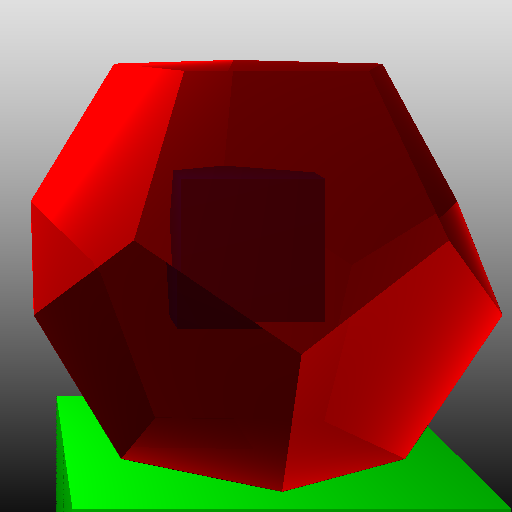
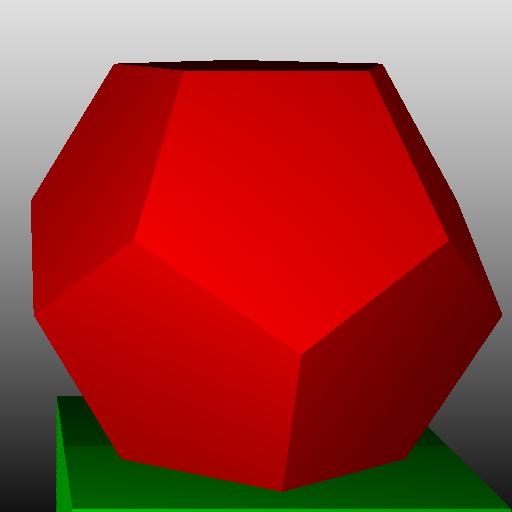
Only light

diff --git a/Source/main.cpp b/Source/main.cpp
@@ -10,7 +10,6 @@
 #include "stb_image_write.h"
 float SIZE = 1;
 
-float find_light(std::vector<Object *>*, std::vector<Light> *, Vec, Collision, bool);
 Vec reflect_vec(Vec, Vec, float);
 
 Collision
@@ -30,54 +29,55 @@ trace_ray(std::vector<Object *> *scene, std::vector<Light> *lights, Ray ray, int
     }
     if (hit.hit) {
         Vec intersect(ray.pos + (ray.dir * hit.dist));
-        float light = find_light(scene, lights, intersect, hit, hit.real);
-        hit.color = hit.color * light;
-        if (hit.color.a < 1) {
-            Ray second = Ray(intersect, reflect_vec(ray.dir, hit.normal, hit.reflect));
-            tmp = trace_ray(scene, lights, second, deep - 1);
-            if (tmp.hit) {
-                light = find_light(scene, lights, second.pos + (second.dir * (tmp.dist + 5)), tmp, tmp.real);
-                float pogl = exp(-(hit.absorbtion * tmp.dist * 4 / SIZE));
-                hit.color = hit.color + (tmp.color * (pogl * light));
+        // light for THIS point
+        size_t lights_len = lights->size();
+        float add = 0;
+        for (size_t i = 0; i < lights_len; i++) {
+            Vec light_dir = (*lights)[i].pos - intersect;
+            // for each light do, while not wall
+            Ray to_light(intersect, light_dir.normalize());
+            float way_coef = 0;
+            float distance = light_dir.len();
+            
+            bool result = true;
+            float in_a = 1;
+            while (true) {
+                Collision intersected, tmp;
+                for (size_t j = 0; j < len; j++) {
+                    tmp = (*scene)[j]->intersect(to_light);
+                    if (!intersected.hit || (intersected.dist - tmp.dist > EPS)) {
+                        intersected = tmp;
+                    }
+                }
+                if (!intersected.hit) {
+                    way_coef += in_a * ((*lights)[i].pos - to_light.pos).len();
+                    break;
+                } else { // walked into something
+                    if (intersected.color.a < 1) {
+                        way_coef += in_a * intersected.dist;
+                        // here all is bad, because i dont know, inside or outside of object we went
+                        if (in_a < 1) {
+                            in_a = 1; // kostyl`
+                        } else {
+                            in_a = intersected.color.a;
+                        }
+                    } else {
+                        result = false;
+                        break;
+                    }
+                }
             }
-        }
+            if (result) {
+                float angle = abs(dot(light_dir.normalize(), hit.normal.normalize()));
+                float light = angle * ((*lights)[i].intensity / (way_coef * way_coef));
+                add += light;
+            }        
+        }  
+        hit.color = hit.color * add;
+        float pogl = exp(-(hit.absorbtion * tmp.dist * 4 / SIZE));
     }
     
     return hit;
-}
-
-float
-find_light(std::vector<Object *> *scene, std::vector<Light> *lights, Vec intersect, Collision hit, bool real) {
-    size_t light_len = lights->size();
-    float add = 0;
-    float EPS = 1e-3;
-    for (size_t i = 0; i < light_len; i++) {
-        Vec light_dir = (*lights)[i].pos - intersect;
-        Ray to_light(intersect + light_dir.normalize() * 3, light_dir.normalize());
-        Collision intersected, tmp;
-        for (size_t j = 0; j < scene->size(); j++) {
-            tmp = (*scene)[j]->intersect(to_light);
-            if (tmp.real == real) {
-                if (!intersected.hit || (intersected.dist - tmp.dist > EPS)) {
-                    intersected = tmp;
-                }
-            } else {
-                std::cout << "DIff\n";
-            }
-        }
-
-        float angle = abs(dot(light_dir.normalize(), hit.normal.normalize()));
-
-        float distance = light_dir.len();
-        float light = angle * ((*lights)[i].intensity / (distance * distance));
-        if (intersected.hit) {
-            std::cout << distance << ' ' << intersected.dist << '\n';
-            light *= (1 - intersected.color.a);
-            //light *= intersected.color.a;
-        }
-        add += light;
-    }
-    return add;
 }
 
 Vec
@@ -102,8 +102,8 @@ render(int size) {
         }
     }
     std::vector<Light> lights = std::vector<Light>();
-    lights.push_back(Light(Vec(0, 0, -size * 3), 4 * size * size));
-    lights.push_back(Light(Vec(-size, -size, 0), 4 * size * size));
+    lights.push_back(Light(Vec(0, 0, -size * 1.5), 1.5 * size * size));
+    lights.push_back(Light(Vec(-size * 3, size, 0), 5 * size * size));
     
     std::vector<Object*> scene = std::vector<Object*>();
     std::vector<Object*> sphere = std::vector<Object*>();
@@ -115,7 +115,7 @@ render(int size) {
     Vec d_center(size / 3, size / 3, 0);
     Vec d_normal(0, 1, 0);
     float d_size = size / 4.5;
-    Dodekaedr d(d_center, d_normal, d_size, Color(1, 0, 0, 0.5), 1.02, 1.3, true);
+    Dodekaedr d(d_center, d_normal, d_size, Color(1, 0, 0, 0.5), 1.02, 0, 1.3, true);
    
     float a = d_size;
     float b = a / sqrt(2 - 2 * cos(2 * M_PI / 5));
@@ -125,7 +125,7 @@ render(int size) {
     float side = size / 5; 
     Vec shift(size / 4, size / 4, size / 3);
     Rectangle base(Vec(0, 0, 0) + shift, Vec(0, side, 0) + shift, Vec(side, side, 0) + shift, Vec(side, 0, 0) + shift);
-    Cube cube(base, Color(0, 0, 1, 1), 1, false);
+    Cube cube(base, Color(0, 0, 1, 1), 1, 0, 0, false);
 
     scene.push_back(&cube);
     scene.push_back(&d);
@@ -134,23 +134,23 @@ render(int size) {
     float p_side = size / 4;
     Vec p_shift = d_center + (d_normal * k);
     Rectangle* p_base = new Rectangle(Vec(0, 0, 0) + p_shift, Vec(0, p_side, 0) + p_shift, Vec(p_side, p_side, 0) + p_shift, Vec(p_side, 0, 0) + p_shift);
-    Cube* p_cube = new Cube(*p_base, Color(0, 1, 0, 1), 1, true);
+    Cube* p_cube = new Cube(*p_base, Color(0, 1, 0, 1), 1, 0, 0, true);
     scene.push_back(p_cube);
 
     p_shift.z += p_side;
     p_base = new Rectangle(Vec(0, 0, 0) + p_shift, Vec(0, p_side, 0) + p_shift, Vec(p_side, p_side, 0) + p_shift, Vec(p_side, 0, 0) + p_shift);
-    p_cube = new Cube(*p_base, Color(0, 1, 0, 1), 1, true);
+    p_cube = new Cube(*p_base, Color(0, 1, 0, 1), 1, 0, 0, true);
     scene.push_back(p_cube);
 
     p_shift.z -= p_side;
     p_shift.x -= p_side;
     p_base = new Rectangle(Vec(0, 0, 0) + p_shift, Vec(0, p_side, 0) + p_shift, Vec(p_side, p_side, 0) + p_shift, Vec(p_side, 0, 0) + p_shift);
-    p_cube = new Cube(*p_base, Color(0, 1, 0, 1), 1, true);
+    p_cube = new Cube(*p_base, Color(0, 1, 0, 1), 1, 0, 0, true);
     scene.push_back(p_cube);
 
     p_shift.z += p_side;
     p_base = new Rectangle(Vec(0, 0, 0) + p_shift, Vec(0, p_side, 0) + p_shift, Vec(p_side, p_side, 0) + p_shift, Vec(p_side, 0, 0) + p_shift);
-    p_cube = new Cube(*p_base, Color(0, 1, 0, 1), 1, true);
+    p_cube = new Cube(*p_base, Color(0, 1, 0, 1), 1, 0, 0, true);
     scene.push_back(p_cube);
 
     for (int x = 0; x < size; x++) {

diff --git a/Lib/geom.h b/Lib/geom.h
@@ -53,7 +53,8 @@ struct Collision {
     float dist;
     Vec normal;
     Color color;
-    float reflect;
+    float refraction;
+    float reflection;
     float absorbtion;
     bool real;
     Collision() : real(true), hit(false), dist(), normal(), color() {}        
@@ -72,13 +73,15 @@ struct Object {
     int triangles_number;
     Triangle *triangles;
     Color color;
-    float reflect;
-    float absorbtion;
+    float refraction; // преломление
+    float reflection; // отражение 
+    float absorbtion; // полгощение
     Object() {
         triangles_number = 0;
         triangles = NULL;
         color = Color(0, 0, 0, 1);
-        reflect = 1;
+        reflection = 0;
+        refraction = 1;
         absorbtion = 0;
     }
     virtual Collision intersect(Ray r);
@@ -108,10 +111,13 @@ struct Cube : public Object {
     int rectangles_number;
     Rectangle *rectangles;
 
-    Cube(Rectangle base, Color col, float ref = 1, float absorb = 0, bool is_real = true) {
-        reflect = ref;
-        real = is_real;
+    Cube(Rectangle base, Color col, float refract = 1, float reflect = 0, float absorb = 0, bool is_real = true) {
+        refraction = refract;
+        reflection = reflect;
         absorbtion = absorb;
+
+        real = is_real;
+
         rectangles_number = 6;
         rectangles = new Rectangle[rectangles_number];
         rectangles[0] = base;
@@ -148,7 +154,8 @@ struct Cube : public Object {
             }
         }
         res.color = color;
-        res.reflect = reflect;
+        res.refraction = refraction;
+        res.reflection = reflection;
         res.absorbtion = absorbtion;
         res.real = real;
         return res;
@@ -177,10 +184,13 @@ struct Dodekaedr : public Object {
     int pentagon_number;
     Pentagon *pentagons;
 
-    Dodekaedr(Vec center, Vec v, float a, Color col, float ref = 1, float absorb = 0, bool is_real = true) {
-        reflect = ref;
-        real = is_real;
+    Dodekaedr(Vec center, Vec v, float a, Color col, float refract = 1, float reflect = 0, float absorb = 0, bool is_real = true) {
+        refraction = refract;
+        reflection = reflect;
         absorbtion = absorb;
+        
+        real = is_real;
+        
         pentagon_number = 12;
         pentagons = new Pentagon[pentagon_number];
         
@@ -223,7 +233,8 @@ struct Dodekaedr : public Object {
             }
         }
         res.color = color;
-        res.reflect = reflect;
+        res.refraction = refraction;
+        res.reflection = reflection;
         res.absorbtion = absorbtion;
         res.real = real;
         return res;
